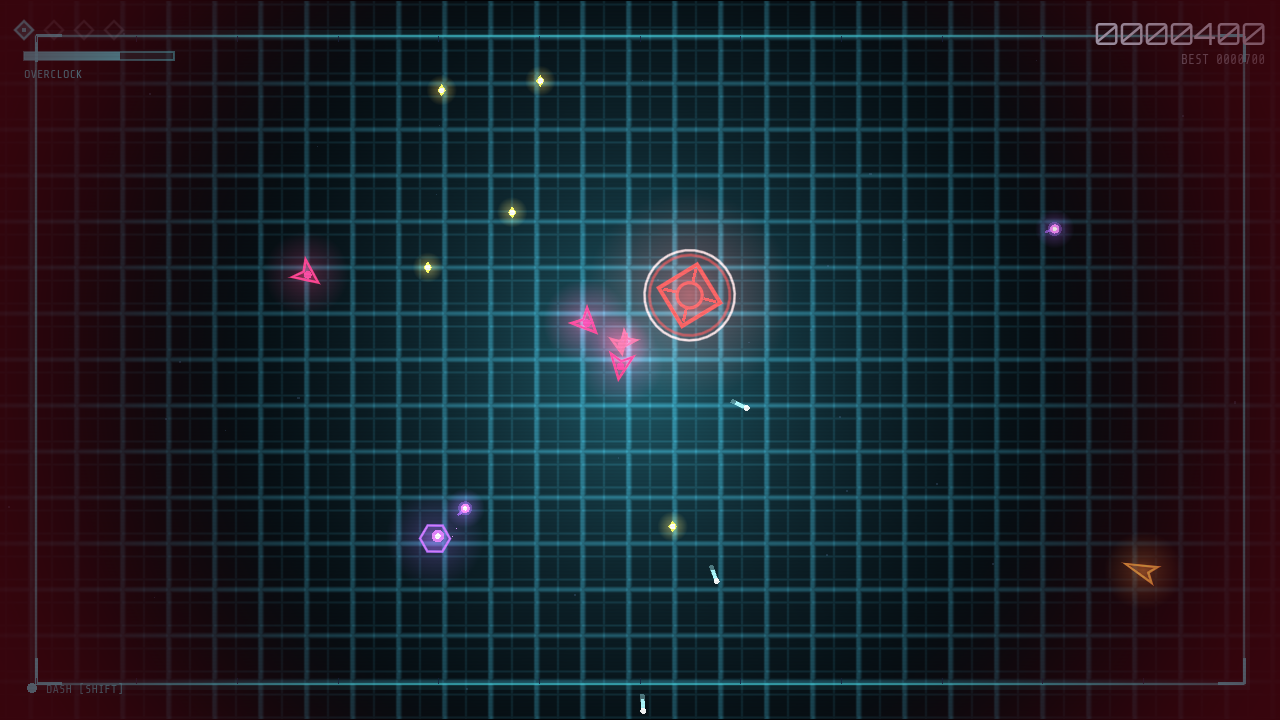
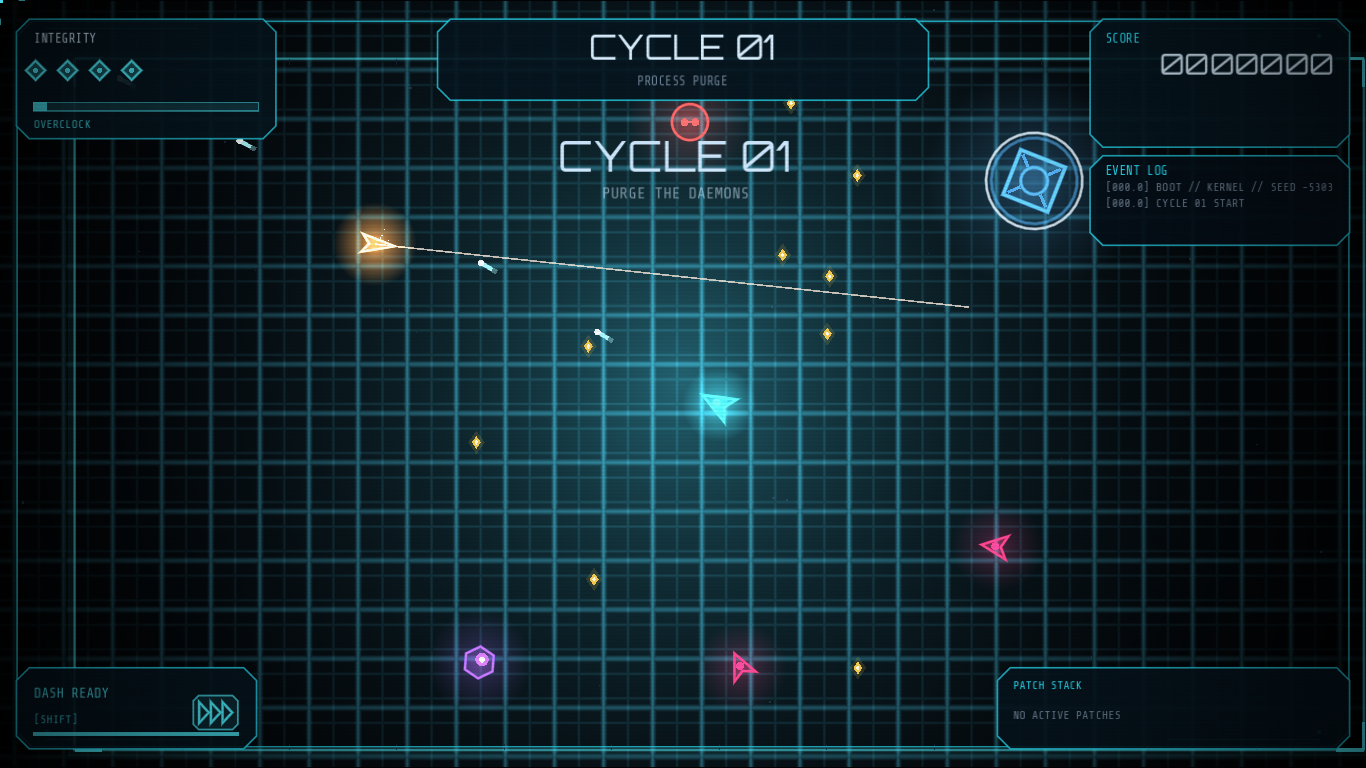
release: prepare v2.5.0

diff --git a/README.md b/README.md
@@ -28,13 +28,22 @@ Somehow, it worked.
 
 ## Play it
 
-Grab the Android, Linux, or Windows build from the [latest release](https://github.com/mafuzyk/kernel-panic/releases/latest). The current release is `v2.4.7`.
+Grab the Android, Linux, or Windows build from the [latest release](https://github.com/mafuzyk/kernel-panic/releases/latest). The current release is `v2.5.0`.
+
+### What's new in 2.5.0
+
+- A complete tactical UI pass across the menu, settings, program/story/bestiary selectors, combat HUD, patch selection, boss encounters, pause screen, and diagnostic terminal.
+- New UNIX, Windows, and TempleOS story acts, with era-specific CRT treatments, bosses, enemies, and arena rules.
+- A desktop debug console for skipping cycles, spawning enemies and bosses, forcing ROOT split states, and clearing combatants while testing movement and AI.
+- Portable save transfer, achievement/event-log reporting, speedrun diagnostics, and the in-game terminal recovery tools.
+- Better desktop input safety, responsive layouts, clearer action icons, aligned controls, and refined pause/terminal behavior on compact windows.
+- Linux x86_64 and Windows x86_64 exports now embed their project data, while the Android release targets arm64 devices.
 
 ## Install the game
 
 ### Android
 
-1. Download `KERNEL-PANIC-v2.4.7-release.apk` from the latest release and open it from your browser or file manager.
+1. Download `KERNEL-PANIC-v2.5.0-release.apk` from the latest release and open it from your browser or file manager.
 2. If Android blocks the installation, allow that app to **Install unknown apps** in the system settings, then open the APK again.
 3. Confirm **Install**. The current export targets 64-bit ARM devices (`arm64-v8a`).
 
